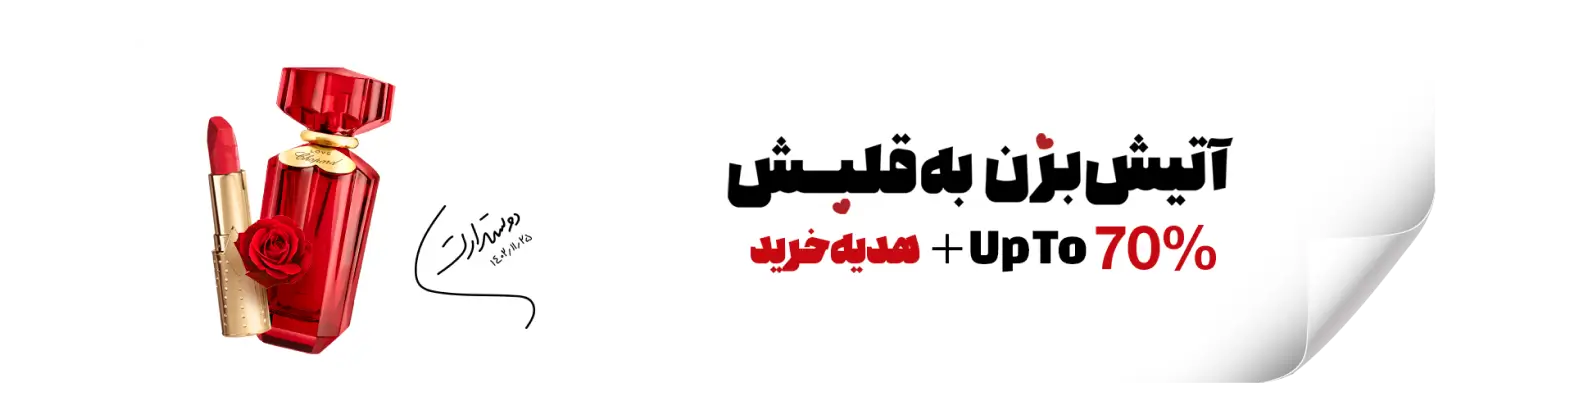
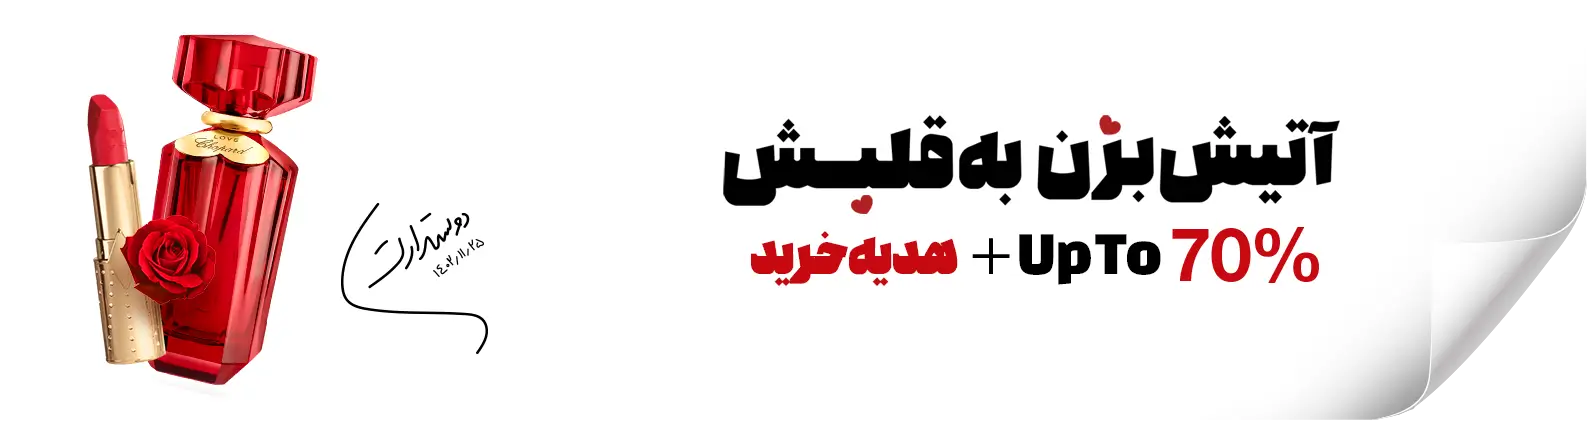
edit ver 1.0.1

Changed region(s): [[0.0312, 0.0585, 0.3427, 0.9366], [0.4673, 0.322, 1.0, 1.0], [0.4361, 0.2634, 0.8411, 0.5268]]

diff --git a/index.html b/index.html
@@ -33,7 +33,7 @@
         <div class="swiper-wrapper">
             <div class="swiper-slide object-fit-cover z-3 d-flex justify-content-center">
                 <div class="d-flex flex-column align-items-center justify-content-center">
-                    <a class="col-lg-12 col-11" data-aos="fade-up" data-aos-duration="700" href="https://rojashop.com/shop?onstock=true&order=discount" target="_blank">
+                    <a class="col-lg-10 col-11" data-aos="fade-up" data-aos-duration="700" href="https://rojashop.com/shop?onstock=true&order=discount" target="_blank">
                         <picture class="text-center">
                             <source media="(min-width: 576px)" srcset="./assets/hero/slide-banner-full.webp">
                             <source media="(max-width: 575px)" srcset="./assets/hero/Mobile-banner.webp">
